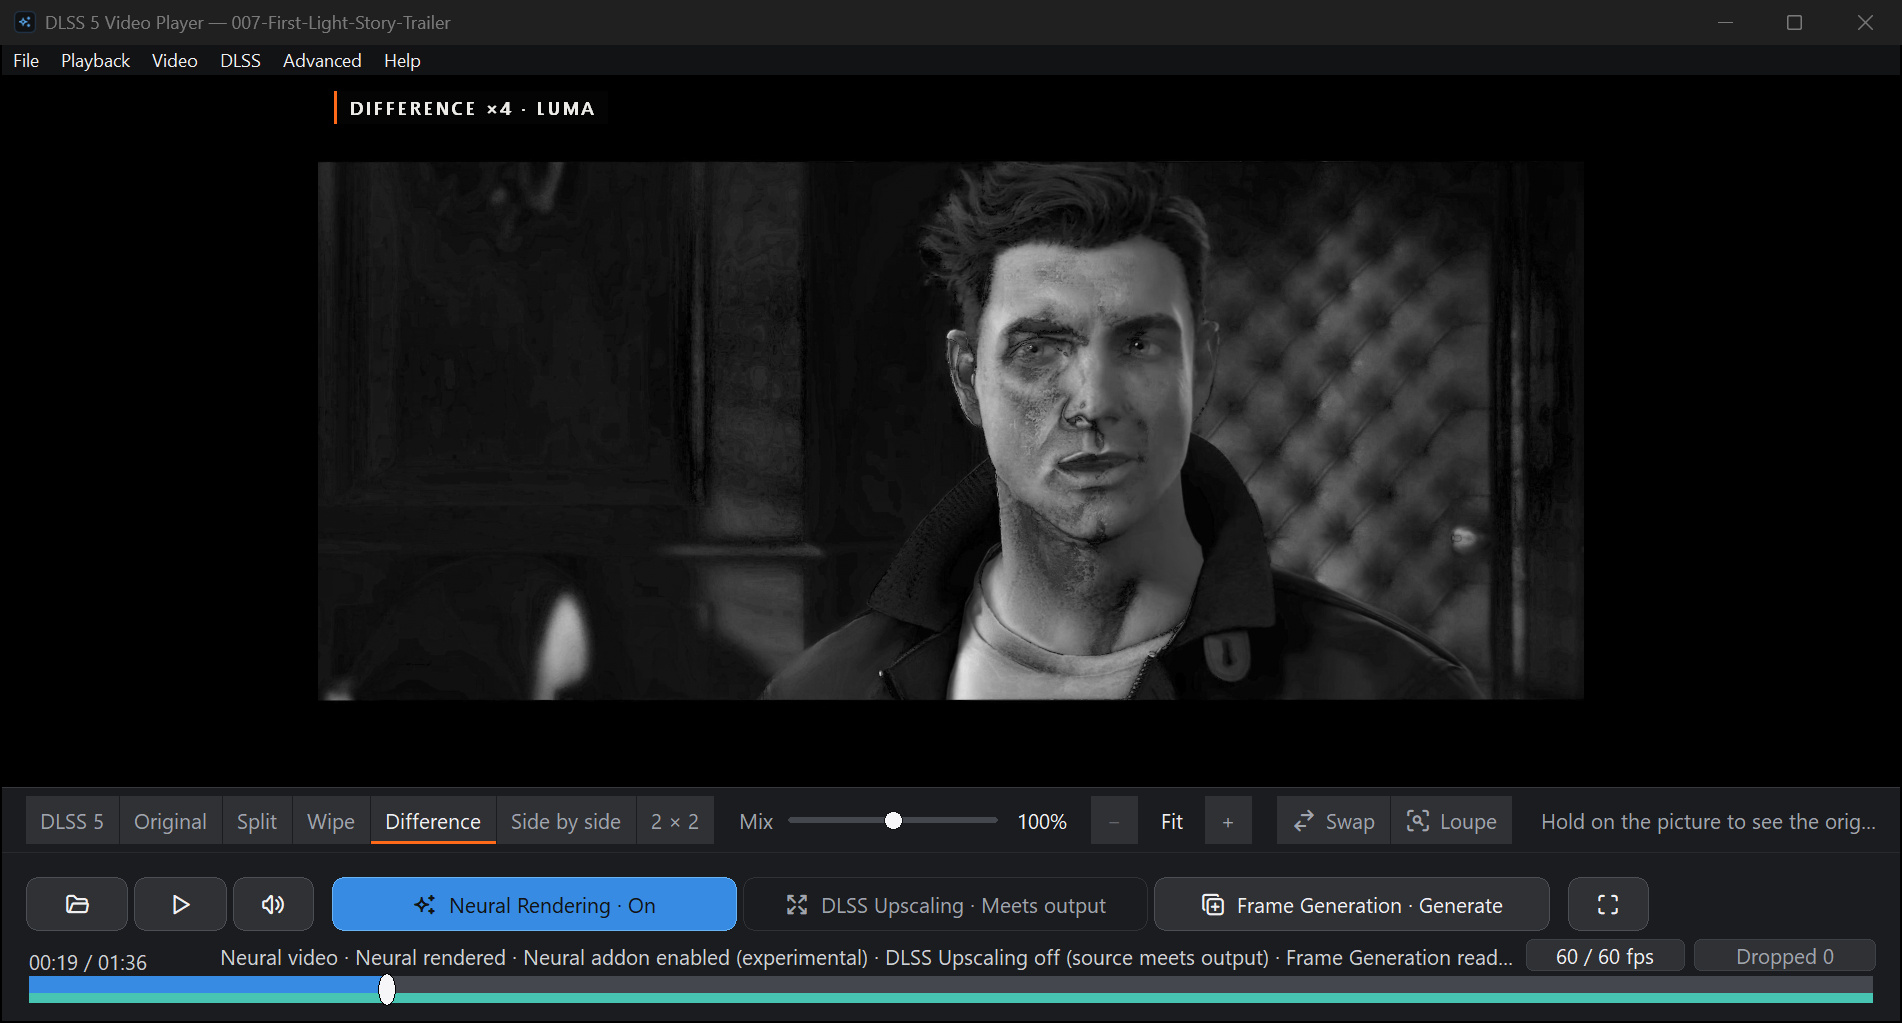
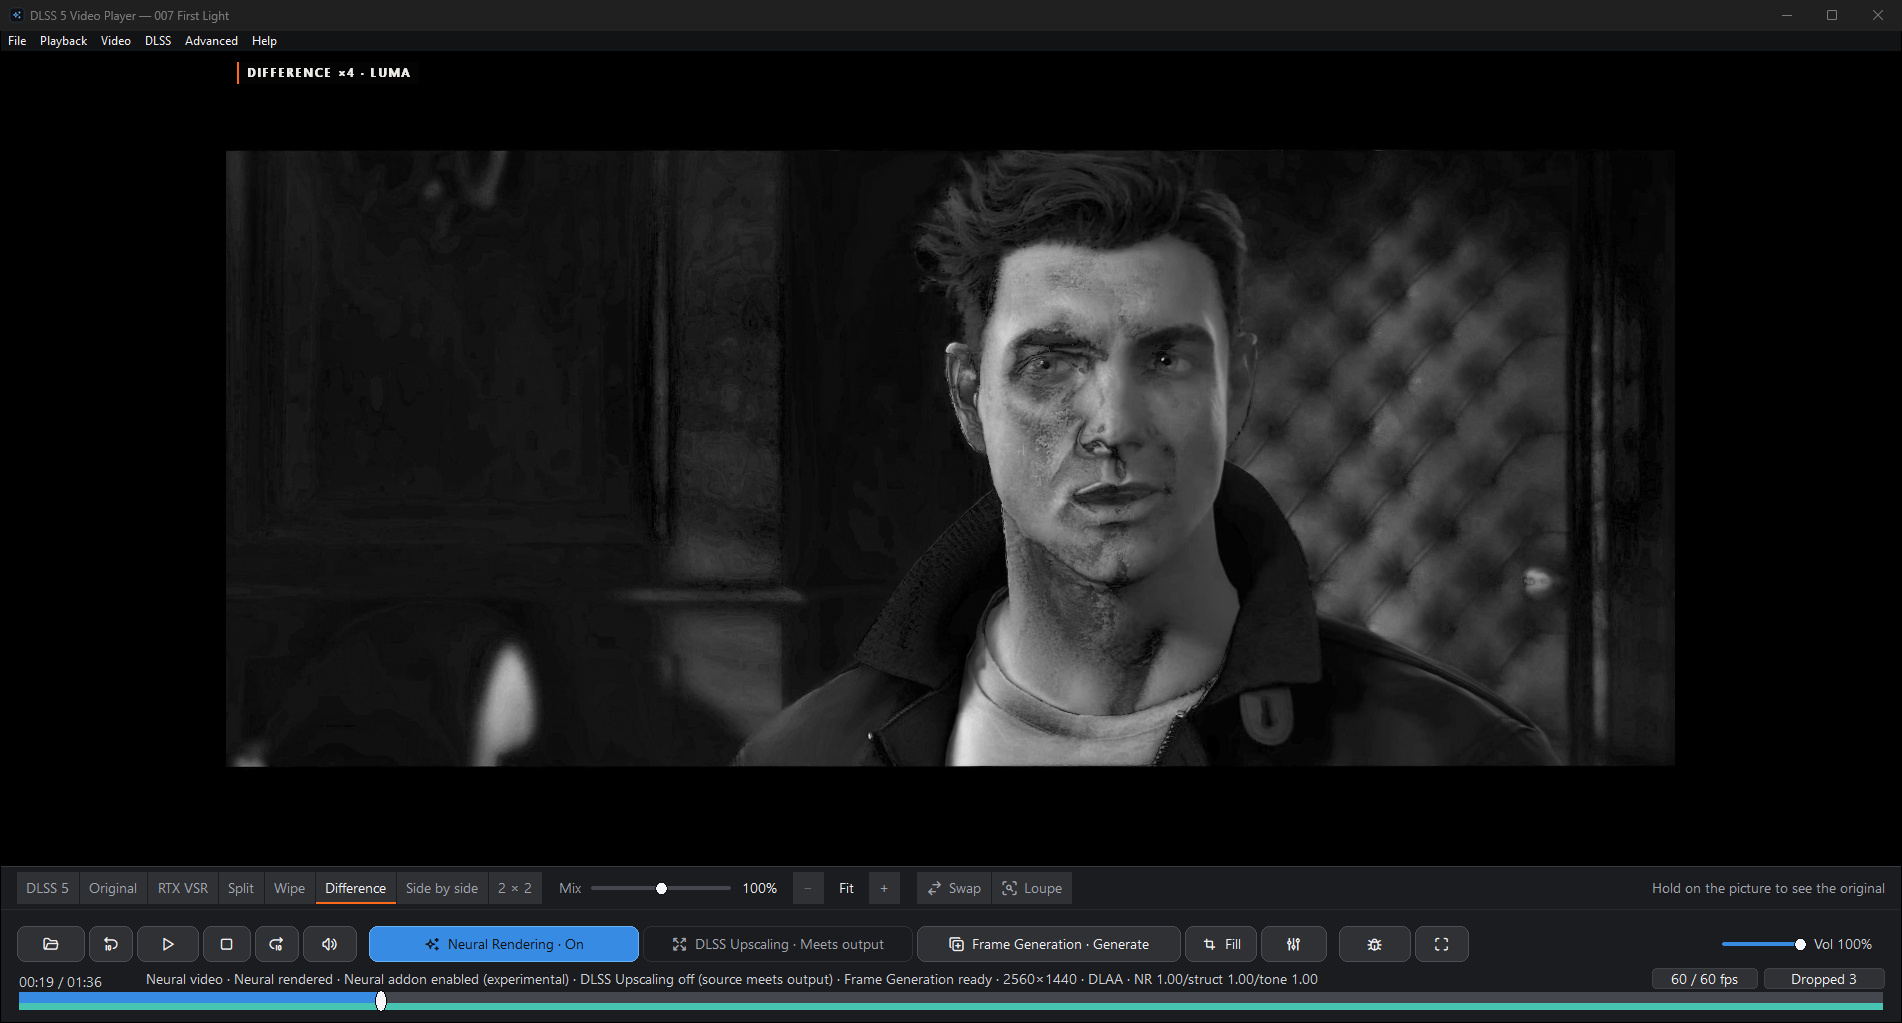
docs(media): retake the screenshots on an RTX 5090, with RTX VSR
New: vsr-wipe.jpg and vsr-wipe-crop.png (a 720p copy of 007 First Light
in Wipe against RTX VSR, the plain scale left of the divider) and
export-stages-vsr.jpg (Export with DLSS stages with the Upscaler row).
Retaken at default settings on a fresh profile: the start screen with
Recent tiles, Wipe, Difference, 2 x 2 (its fourth pane is now RTX VSR)
and the PNG it saved, and the GTA VI on/off pair at frame 1940.
Provenance for each is in docs/screenshots/README.md.

diff --git a/docs/screenshots/README.md b/docs/screenshots/README.md
@@ -8,17 +8,203 @@ for images that have since been replaced are in the git history of this file.
 
 | File | What it shows | Made |
 | --- | --- | --- |
-| `current/neural-playback.jpg`, `original-comparison.jpg` | The player paused on GTA VI at 1:04, neural view on, then off | 22 Sep 2026, v0.25.0 |
-| `current/player-start.jpg` | The start screen at 150% on a fresh profile: the capability check and the seven game trailers with their YouTube thumbnails | 24 Sep 2026, `dced888` + `f2ae230` |
-| `current/compare-wipe.jpg` | 007 First Light paused on frame 1122 in Wipe, the divider down the face, with the compare bar | 24 Sep 2026, `dced888` + `f2ae230` |
-| `current/compare-difference.jpg` | The same frame in Difference (x4, brightness only): where the model changed the picture | 24 Sep 2026, `dced888` + `f2ae230` |
+| `current/vsr-wipe.jpg` | A 1280x720 copy of 007 First Light paused on frame 1122 in Wipe, compared against RTX VSR: the player's plain (bilinear) scale of the original left of the divider, RTX VSR at High right of it, the picture at 1.13x the video | 2 Oct 2026, `9d0f790` |
+| `current/vsr-wipe-crop.png` | The picture area of `vsr-wipe.jpg`, 1:1, with both tags | 2 Oct 2026, `9d0f790` |
+| `current/export-stages-vsr.jpg` | **Export with DLSS stages** with Super Resolution alone, 2160p, Upscaler **RTX VSR (recommended)**, and its summary line | 2 Oct 2026, `9d0f790` |
+| `current/player-start.jpg` | The start screen after two renders and a restart: the capability check with its RTX VSR line, two Recent tiles at Rendered 100%, and the Game trailers row | 2 Oct 2026, `9d0f790` |
+| `current/compare-wipe.jpg` | 007 First Light paused on frame 1122 in Wipe, the divider down the face, with the compare bar | 2 Oct 2026, `9d0f790` |
+| `current/compare-difference.jpg` | The same frame in Difference (x4, brightness only): where the model changed the picture | 2 Oct 2026, `9d0f790` |
+| `current/compare-2x2-toast.jpg` | The same frame in 2 x 2 (original, DLSS 5, Difference, RTX VSR at High), with the toast that confirms **Save comparison image** | 2 Oct 2026, `9d0f790` |
+| `current/saved-comparison-2x2.png` | The file that save wrote: the player's own PNG of the 2 x 2 view with its provenance footer, as saved | 2 Oct 2026, `9d0f790` |
+| `current/neural-playback.jpg`, `original-comparison.jpg` | The player paused on GTA VI Trailer 2 at frame 1940 (1:04.7) at default settings, the DLSS 5 view, then neural rendering off | 2 Oct 2026, `9d0f790` |
 | `current/photo-wipe.jpg` | A *Mafia: The Old Country* trailer frame saved as a PNG and opened as a photo, in Wipe, the divider down the man's nose | 25 Sep 2026, 0.26.0 |
-| `current/compare-2x2-toast.jpg` | The same frame in 2 x 2 (original, DLSS 5, Difference, DLSS 5 at Mix 50%), with the toast that confirms **Save comparison image** | 24 Sep 2026, `dced888` + `f2ae230` |
-| `current/saved-comparison-2x2.png` | The file that save wrote: the player's own PNG of the 2 x 2 view with its provenance footer, as saved | 24 Sep 2026, `dced888` + `f2ae230` |
 | `current/subtitles.jpg` | A test subtitle file drawn over the DLSS 5 frame | 24 Sep 2026, `dced888` + `f2ae230` |
 | `current/neural-strength.jpg` | Image adjustments, with the DLSS 5 mix slider at 1.00, over the DLSS 5 frame | 24 Sep 2026, `dced888` + `f2ae230` |
 | `current/neural-settings.jpg` | The Neural settings dialog at its defaults | 24 Sep 2026, `dced888` + `f2ae230` |
-| `current/recent-videos.jpg` | The File menu (Game trailers, Recent videos, Save comparison image) over the Mafia: The Old Country trailer, paused on a neural frame with the compare bar. The history submenu is closed, which keeps local paths out of frame. From the earlier round, at 175%, before the sliders were redrawn | 24 Sep 2026, v0.25.0+ |
+
+## 2 October 2026 images
+
+**Hardware and runtime.** NVIDIA GeForce RTX 5090, driver 617.14
+(`32.0.16.1714`), runtime lock `310.8.SF-v2` (ReShade 6.8.0.2155, RenoDX
+6.5.3, DLSS-NR 310.8.0, as each render's receipt records them).
+
+**The player.** This repository at `9d0f790` (the RTX VSR playback branch,
+which still reports itself as 0.27.2), the tested `build-upscaling` Release
+build, copied with its neural runtime, ffmpeg, ffprobe, yt-dlp and deno into a
+new folder with no settings file, cache or logs. That folder was too deep for
+the portable cache beside the exe (the player refuses a root whose staging
+paths would overflow, and falls back to LocalAppData, which held another
+install's cache and history), so before anything was opened the copy's
+settings file named an empty cache folder of its own (`[Storage]
+CacheDirectory`, `CacheDirectoryAutomatic=0`). Every other setting started at
+its default: neural settings at 1.0 with Skin structure Off and one pass, RTX
+VSR Upscaling on, RTX VSR quality High, DLSS Upscaling off.
+
+**Display.** The machine's own two 1920x1080 displays at 100% scaling (96 dpi),
+unchanged; the player on the primary one. At 100% the player's chrome is a
+smaller share of the window than in the 150% captures these replace, so the
+picture is larger and the text smaller.
+
+**Sources.** Both through **File > Game trailers**, at the YouTube **Auto**
+rung (1440p), so the player titles them with the trailer list's names:
+
+| Source | Video | SHA-256 |
+| --- | --- | --- |
[2 lines of base64/hex data omitted]
+
+**Renders.** Each was opened and **DLSS > Convert & export > Convert whole
+video to neural video** posted, which copied the source into the cache and
+rendered all of it (72 s for 007, 55 s for GTA VI):
+
+| Source | Verified | Render key | Neural SHA-256 |
+| --- | --- | --- | --- |
[2 lines of base64/hex data omitted]
+
+A whole-video render's frame *n* is source frame *n*.
+
+**How the player was driven.** By posted window messages only: `WM_COMMAND`
+with the menu ids in `src/AppMenu.h`, `SetWindowPos` (no activation, no
+z-order change) for the window's size, and for the dialogs `WM_SETTEXT`,
+`BM_SETCHECK` and `CB_SETCURSEL` on their controls followed by the
+notification each dialog acts on. No pointer or keyboard input, so the person
+using the machine kept both. Frames were reached with **Playback > Go to
+timecode** (`00:00:18:42` is frame 1122 of 007, `00:01:04:20` frame 1940 of GTA
+VI) while paused.
+
+**Capture.** Each window was captured by handle with
+`tools/verification/capture-window.ps1` (a dialog, which is a window of its
+own, through the same capture function given its handle), cut to DWM's
+extended frame bounds, and saved once as JPEG at quality 95 with no chroma
+subsampling; the two PNGs are lossless. Nothing else was changed.
+
+**One thing posted twice.** The picture's tags fade in on a timer after a
+compare mode changes. In this unattended session the fade's last frame was not
+presented, and the tags stayed invisible on a paused frame; posting the same
+mode command a second time, which changes nothing, presented them. Every
+compare capture below was taken after that second command.
+
+**Frame checks.** Each capture was compared with frames *n* − 1, *n* and *n* +
+1 of the source and of the render, area-scaled to the picture (mean absolute
+difference in levels):
+
+| Capture | Against | *n* − 1 | *n* | *n* + 1 |
+| --- | --- | --- | --- | --- |
+| GTA VI, neural rendering off | source | 7.03 | **0.97** | 7.71 |
+| GTA VI, DLSS 5 view | render | 7.52 | **1.00** | 8.23 |
+| 007 First Light, DLSS 5 view (before Wipe) | render | 1.24 | **0.72** | 1.20 |
+
+The saved comparison's footer says frame 1122 as well.
+
+### 007 First Light, frame 1122
+
+`compare-wipe.jpg`, `compare-difference.jpg` and `compare-2x2-toast.jpg`: the
+window set to a 1902x1023 visible frame (client 1900x971), the size of the
+captures they replace; the picture is 1449x815, 0.57x the video. The 007 First
+Light tile in **File > Game trailers** reopened the cached source with its
+render. Paused, frame 1122, then **Wipe** with its divider placed by a posted
+left-button press on the picture at 60.8% of its width (where the previous
+round had it), **Difference** at its default x4 brightness, and **2 x 2**.
+
+On this build the 2 x 2 view's fourth pane is **RTX VSR · High**, not DLSS 5 at
+a second Mix: where RTX VSR can run, it takes that pane. Here the picture is
+shown smaller than the video, so it is made at the source size (the log says
+`input=2560x1440 output=2560x1440 quality=3`) and the pane shows what VSR does
+to the original without enlarging it.
+
+**File > Save comparison image** opened its save dialog; its file name box was
+given a scratch folder plus the name the player suggested, and Save was
+posted. The toast was captured 1.2 s later. `saved-comparison-2x2.png` is that
+file, byte for byte: 1449x906, the 1449x815 view plus a 91 px footer reading
+`DLSS 5 Video Player 0.27.2 · 007 First Light`,
+`00:00:18:42 · frame 1122 · 2 × 2 (fourth pane RTX VSR High (default)) · Mix 100% · Zoom Fit`,
+`Settings sha256:ee4d77128a1605d2 · Runtime 310.8.SF-v2 · Saved 2026-10-02 21:51:09`.
+The settings digest is the one the 24 September footer gave for the defaults.
+
+### RTX VSR against plain scaling
+
+`vsr-wipe.jpg` and `vsr-wipe-crop.png`. RTX VSR only works where the picture is
+shown larger than the video, which a 2560x1440 trailer never is on a 1080p
+display, so the source is a 1280x720 copy of the cached 007 source, made with
+the bundled ffmpeg:
+
+```
+ffmpeg -i source.mkv -map 0:v:0 -map 0:a:0
+  -vf scale=1280:720:flags=lanczos+accurate_rnd+full_chroma_int -fps_mode passthrough
+  -c:v libx264 -preset slow -crf 12 -pix_fmt yuv420p
+  -colorspace bt709 -color_primaries bt709 -color_trc bt709 -color_range tv -c:a copy
+  "007 First Light 720p.mkv"
+```
+
+5,784 frames, SHA-256
[1 lines of base64/hex data omitted]
+opened as a local file (on the player's command line, after the start screen
+had been captured, so no local name reached a Recent tile) in the 1902x1023
+window and rendered whole, because the compare views need a render (render key
+`118cb8468703a30b…`, 5,784 / 5,784 verified). Then, paused on frame 1122:
+**Wipe** and **Video > Compare > Compare against RTX VSR** (`Shift+R`'s
+command), the divider still at 60.8%.
+
+The picture is 1449x815: **1.13x** the video, the largest Fit makes on this
+display, because the menu, compare bar, controls and status line take 156 of
+the client's 971 rows. **Fill** reaches 1.48x but pushes the tags out of view,
+so it was not used. RTX VSR runs at High, its default (`1280x720 -> 1449x815`
+in the log). Left of the divider is the compositor's bilinear scale of the
+original. A check on the capture: the left side differs from a bilinear scale
+of the copy's frame 1122 by 1.04 levels (1.52 and 1.50 for frames 1121 and
+1123), the right side by 1.42; the right side's mean Laplacian, a measure of
+fine detail, is 2.72 against the left's 2.09 beside the divider. The status
+line reads `DLSS Upscaling off`, which is right: playback VSR stands aside
+while a compare view draws both members.
+
+`vsr-wipe-crop.png` is the render window's area of that capture, x 226-1675 and
+y 55-790 of the visible frame: 1449x735, unscaled and lossless, both tags in
+it. It is one frame of a game trailer on one display; the measured comparison
+is the [RTX VSR quality report](../measurements/vsr-quality-20261002/REPORT.md),
+not this picture.
+
+A 960x540 copy made the same way showed at 1.51x in the same window and was
+captured too; it is not used here.
+
+### GTA VI on and off, frame 1940
+
+`neural-playback.jpg` and `original-comparison.jpg`: the window set to a
+1440x930 visible frame (client 1438x878), the size of the pair they replace.
+The GTA VI tile reopened the cached source with its render, in the DLSS 5 view;
+paused, frame 1940, captured; then **Neural Rendering** off, which leaves the
+frame where it is, captured again. Default settings, unlike the 22 September
+pair, which was taken with Intensity, Local tone and Local structure at 2.0.
+
+### Export with DLSS stages
+
+`export-stages-vsr.jpg`, with GTA VI loaded: **DLSS > Convert & export > Export
+with DLSS stages** opened its window, which is a tool window of its own, and
+was captured by its own handle: 472x468 at 100%. **Super Resolution** was
+ticked, **Output height** set to 2160p and **Upscaler** to **RTX VSR
+(recommended)**; Neural rendering and Frame generation stayed unticked, as they
+open. The summary reads `3840 × 2160 at 30 fps · 1 pass`. Nothing was
+exported, so no save dialog or output path exists. **History** is greyed, since
+it applies to DLSS Super Resolution only, and at this size its text is cut to
+"Per-frame (recommendec".
+
+### The start screen
+
+`player-start.jpg`: after both renders the player was closed and started
+again with nothing to open, at the size it opens at (80% of the work area,
+a 1116x819 visible frame, client 1114x767). The capability check reads GPU,
+driver 617.14 against the 610.47 minimum, the neural runtime matching the lock,
+**RTX VSR · Upscales playback shown larger than the video**, and the player's
+render-speed estimate. **Recent** has GTA VI - Trailer 2 and 007 First Light,
+each **Rendered 100%**, with the frame each was left on; **Game trailers** has
+the other five, with thumbnails from `i.ytimg.com`. Taken before any local file
+was opened.
+
+**Not retaken.** `subtitles.jpg`, `neural-strength.jpg` and
+`neural-settings.jpg` (24 September, below) and `photo-wipe.jpg` (25
+September). `recent-videos.jpg`, the File menu over a paused frame, is retired:
+a menu needs real input to open, and the start screen above now shows Recent
+videos.
 
 ## 25 September 2026 image
 
@@ -51,54 +237,14 @@ picture at 30.5% of its width. The window was captured by handle with
 1902x1023, the size of the 150% captures beside it, and saved as JPEG at quality
 95 with no chroma subsampling. Nothing else was changed.
 
-## 22 September 2026 images
+## 24 September 2026 images
 
-**Hardware and runtime.** RTX 4080 SUPER, driver 610.47 (`32.0.16.1047`),
-ReShade 6.8.0.2155, RenoDX 6.5.3, DLSS-NR 310.8.0.
-
-**Settings.** Intensity, Local tone and Local structure at 2.0 (the defaults are
-1.0). Everything else at its default, upscaling off.
-
-**Sources.** Two official uploads, both with age limit 0, fetched at the
-player's YouTube **Auto** rung:
-
-| Source | Video | SHA-256 |
-| --- | --- | --- |
[2 lines of base64/hex data omitted]
-
-**Renders.** Each source was opened in the player with neural rendering on and
-left to finish. The cache entries:
-
-| Source | Range | Verified | Render key | Neural SHA-256 |
-| --- | --- | --- | --- | --- |
[2 lines of base64/hex data omitted]
-
-A render starts at its range's first frame, so source frame *n* is render frame
-*n* − 60 for The Matrix and *n* − 54 for GTA VI. A picture check confirmed both
-offsets: each pair differs least at that offset.
-
-**Player captures.** Each pair is one paused frame in a live session, with only
-the view switched:
-
-1. Send the player to 0:00 and step forward 10 s at a time with its own command.
-2. Turn neural rendering on, so the session renders ahead of the paused playhead.
-3. Play onto rendered frames and pause. Capture the neural view.
-4. Turn neural rendering off (the frame stays where it is) and capture the original.
-
-Commands went to the window as `WM_COMMAND`, as
-`tools/verification/drive-neural-toggle.ps1` does. The window was captured by
-handle with `tools/verification/capture-window.ps1` and cropped to its visible
-frame (1440x930), then saved once as JPEG at quality 95 with no chroma
-subsampling.
-
-The pairs really are one frame each. Across the video area, the GTA VI pair
-differs by a mean of 9.5 levels and the Matrix pair by 5.2. A wipe taken in the
-same session matched the original left of its divider (0.16) and the render to
-the right (0.0).
-
-## 24 September 2026 images, second round
+`subtitles.jpg`, `neural-strength.jpg` and `neural-settings.jpg` are left from
+this round. Its Wipe, Difference, 2 x 2, saved-comparison and start-screen
+images were replaced on 2 October; the demonstration video's player scenes and
+the social square's saved 2 x 2 PNG
+([docs/media/README.md](../media/README.md)) are from this round too, and the
+records of the replaced files are in this file's history.
 
 **Hardware and runtime.** RTX 4080 SUPER, driver 610.47 (`32.0.16.1047`),
 runtime lock `310.8.SF-v2`. The player is this repository at `dced888`, plus
@@ -127,59 +273,11 @@ the wipe divider needed the real pointer over the picture for a moment.
 **The subtitle** is a two-line test file written for this shot, loaded with
 **Load subtitle file**. It says what it is; it is not the trailer's dialogue.
 
-**The saved comparison** is exactly what **File > Save comparison image**
-wrote. Its footer reads: `DLSS 5 Video Player 0.25.0 · 007-First-Light-Story-Trailer`,
-`00:00:18:42 · frame 1122 · 2 × 2 (fourth pane Mix 50%) · Mix 100% · Zoom Fit`,
-`Settings sha256:ee4d77128a1605d2 · Runtime 310.8.SF-v2 · Saved 2026-09-24 16:44:22`.
-The settings digest there is the player's own (canonical settings and guides);
-the render's cache manifest records `96bf471a…` for the same settings under its
-own hashing.
-
-**Not retaken.** `recent-videos.jpg` needs an open menu, which a posted message
-did not open; real input would have taken the pointer and focus from the person
-using the machine. It is from the earlier round (below) and has no playback
-artifact (checked). The 22 September images were not retaken either; the README
-and the site still use their GTA VI pair (`neural-playback.jpg`,
-`original-comparison.jpg`).
-
-## 24 September 2026 image, first round
-
-`recent-videos.jpg` is the one image left from this round.
-
-**Hardware and runtime.** The 22 September machine and runtime (RTX 4080
-SUPER, driver 610.47, RenoDX 6.5.3, DLSS-NR 310.8.0), at 175% display scaling.
-The build is the w3-ui branch after v0.25.0: Common Controls 6, dark popup
-menus, the compare bar and the start screen as they shipped next.
-
-**Source.** *Mafia: The Old Country - Family Takes Sacrifice* (Mafia Game), the
-official upload in the player's trailer list, 2560x1440 at 30 fps, opened as a
-local copy of the player's cached source. Neural rendering was turned on at
-0:00, the video played and was paused at 0:21, inside the rendered range with
-the neural view on. Default neural settings.
-
-**Capture.** Every window was captured by handle with `PrintWindow` and cut to
-its visible frame (DWM's extended frame bounds), as
-`tools/verification/capture-window.ps1` does, because the workstation was
-locked and the screen itself could not be read. A popup is its own window, so
-the image is two such captures - the player and the open File menu - with the
-menu placed at its real on-screen offset from the player. Nothing else is added
-or changed. Saved once as JPEG at quality 95 with no chroma subsampling.
-
-**One correction.** Those captures drew into a GDI+ bitmap's HDC, and GDI+ turns
-every pixel of exactly RGB(13,11,12) in that HDC into (0,0,0) with alpha 0. The
-neural frame at 0:21 has a flat shadow that decodes to exactly that colour, so
-the first `recent-videos.jpg` showed 798 pixels of black patches on the vest and
-trousers that the player never drew. The window capture was the same, except for
-those pixels. `recent-videos.jpg` was rebuilt from it with them set back to
-(13,11,12): a pixel with alpha 0 inside a `PrintWindow` capture can only be that
-colour. Everywhere else it matches the first JPEG to a mean of 0.01 levels.
-
-**Size.** 1493x932: at 175% the player's minimum width is 1493 visible pixels.
-
 ## Rights
 
 These images document the software. They are not an image-quality benchmark,
 an official NVIDIA integration, or an endorsement by anyone shown. Footage
-belongs to its owners: The Matrix to Warner Bros., Grand Theft Auto VI to
-Rockstar Games, 007 First Light to IO Interactive and Mafia: The Old Country to 2K and Hangar 13. NVIDIA components belong to NVIDIA. The source-code licence
-doesn't relicense any of it.
+belongs to its owners: Grand Theft Auto VI to Rockstar Games, 007 First Light
+to IO Interactive and Mafia: The Old Country to 2K and Hangar 13. NVIDIA
+components belong to NVIDIA. The source-code licence doesn't relicense any of
+it.
